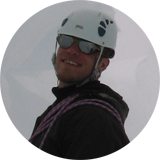
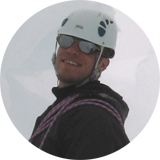
about us team page
On branch master

	modified:   website/_content/1-about/page.md
	modified:   website/_themes/pinfinity/css/pinfinity.css
	modified:   website/_themes/pinfinity/templates/home.html
	modified:   website/assets/img/kris-walker.png

diff --git a/website/_themes/pinfinity/css/pinfinity.css b/website/_themes/pinfinity/css/pinfinity.css
@@ -45,63 +45,6 @@ img {
 img.video-img {
 	border: 1px solid #eee;
 }
-#background {
-	clear: both;
-	padding: 0 0 1em 0;
-}
-.lightbox.disabled {
-	display: none;
-}
-.lightbox, .lightbox .background {
-	position: fixed;
-	height: 100%;
-	width: 100%;
-	top: 0;
-	left: 0;
-}
-.lightbox.enabled {
-	display: block;
-}
-.lightbox .background {
-	background-color: #000;
-	z-index: 1;
-	-moz-opacity: 0.8;
-	opacity: .80;
-	filter: alpha(opacity=80);
-}
-.lightbox .foreground {
-	position: absolute;
-	top: 50%;
-	left: 50%;
-	background-color: #fff;
-	z-index: 2;
-	box-shadow: 0 0 25px #111;
-	-webkit-box-shadow: 0 0 25px #111;
-	-moz-box-shadow: 0 0 25px #111;
-}
-.lightbox .foreground .close {
-	position: absolute;
-	top: -3em;
-	right: -1em;
-	background-color: #000;
-	-moz-opacity: 0.8;
-	opacity: .80;
-	filter: alpha(opacity=80);
-}
-.lightbox .foreground .close a,
-.lightbox .foreground .close a:hover,
-.lightbox .foreground .close a:visited {
-	display: block;
-	padding: .8em;
-	font-weight: bold;
-	color: #fff;
-}
-.lightbox .foreground.video-player {
-	margin-top: -225px;
-	margin-left: -400px;
-	width: 800px;
-	height: 450px;
-}
 ul.nav {
 	margin: 0;
 	padding: 0;
@@ -109,6 +52,12 @@ ul.nav {
 	overflow: hidden;
 }
 li.nav-item {
+	float: left;
+}
+.media-box {
+	overflow: hidden;
+}
+.media-box .img {
 	float: left;
 }
 #banner, #container, .hero-shot, .blog-header {
@@ -179,6 +128,10 @@ li.nav-item {
 }
 #banner .main-nav .nav-item a:hover {
 	background-color: #eee;
+}
+#background {
+	clear: both;
+	padding: 0 0 1em 0;
 }
 #container {
 	box-shadow: 0 0 15px rgba(0,0,0,0.13);
@@ -262,6 +215,28 @@ li.nav-item {
 	background: #98ca3c url(../img/pinfinity-mark-white-44.png) no-repeat;
 	padding-left: 64px;
 	min-height: 44px;
+}
+#content {
+	padding: 1em 3% 2em;
+}
+#content .team {
+	padding: 0;
+	margin: 0;
+	list-style-type: none;
+}
+#content .team .media-box {
+	margin-bottom: 2em;
+}
+#content .team .media-box>.img {
+	margin-top: 2em;
+}
+#content .team .media-box>.text {
+	margin-left: 200px;
+}
+#content .team .media-box>.text>.header {
+	font-size: 2em;
+	margin: 0 0 0.3em;
+	color: #e96f00;
 }
 .row.passion,
 .row.product {
@@ -411,6 +386,59 @@ li.nav-item {
 }
 #footer p.copyright {
 	font-size: 0.9em;
+}
+.lightbox.disabled {
+	display: none;
+}
+.lightbox, .lightbox .background {
+	position: fixed;
+	height: 100%;
+	width: 100%;
+	top: 0;
+	left: 0;
+}
+.lightbox.enabled {
+	display: block;
+}
+.lightbox .background {
+	background-color: #000;
+	z-index: 1;
+	-moz-opacity: 0.8;
+	opacity: .80;
+	filter: alpha(opacity=80);
+}
+.lightbox .foreground {
+	position: absolute;
+	top: 50%;
+	left: 50%;
+	background-color: #fff;
+	z-index: 2;
+	box-shadow: 0 0 25px #111;
+	-webkit-box-shadow: 0 0 25px #111;
+	-moz-box-shadow: 0 0 25px #111;
+}
+.lightbox .foreground .close {
+	position: absolute;
+	top: -3em;
+	right: -1em;
+	background-color: #000;
+	-moz-opacity: 0.8;
+	opacity: .80;
+	filter: alpha(opacity=80);
+}
+.lightbox .foreground .close a,
+.lightbox .foreground .close a:hover,
+.lightbox .foreground .close a:visited {
+	display: block;
+	padding: .8em;
+	font-weight: bold;
+	color: #fff;
+}
+.lightbox .foreground.video-player {
+	margin-top: -225px;
+	margin-left: -400px;
+	width: 800px;
+	height: 450px;
 }
 @media (max-width: 1130px) {
 	#banner, #container, .hero-shot, .blog-header {

diff --git a/website/_themes/pinfinity/templates/home.html b/website/_themes/pinfinity/templates/home.html
@@ -16,7 +16,7 @@
 		</p>
 	</div>
 	<div class="section boxb">
-		<p class="hero-shot-image"><img src="/assets/img/ipad-2.png"></p>
+		<p class="hero-shot-image"><img src="/assets/img/ipad-2.png" alt="The Gallbladder iBook for iPad"></p>
 	</div>
 </div><!-- .row.hero-shot -->
 

diff --git a/website/_content/1-about/page.md b/website/_content/1-about/page.md
@@ -7,37 +7,64 @@ _template: page
 <ul class="team">
 	<li class="media-box">
 		<p class="img">
-			<img src="" />
+			<img src="/assets/img/jeffrey-eakin-md.png" alt="Jeffrey Eakin: Founder and CEO." />
 		</p>
-		<p class="text">
-		</p>
+		<div class="text">
+			<h3 class="header light">Jeffrey Eakin M.D.</h3>
+			<p class="bio"> Jeff is our founder and fearless leader. He is a
+visionary and true entrepreneur to the bone. He's the one who risks life and
+limb to make all the tough decisions needed to set the ship on the right course
+(at least until the next time we change course).</p>
+			<p class="bio">We hear he's also a pretty good surgeon. From what we
+know, he has completed a Minimally Invasive, Bariatric and Robotic Surgery
+Fellowship at the Center for Minimally Invasive Surgery at The Ohio State
+University Medical Center under the direction of Dr. Scott Melvin. These days
+he is practicing Minimally Invasive Gastrointestinal Surgery, in addition to
+authoring multi-touch books to teach you all about it. So, to be frank, Jeff
+knows his stuff.  </p>
+			<p class="link">
+				<a href="http://www.linkedin.com/pub/jeffrey-l-eakin-m-d/8/79a/338/">Learn more about Dr. Eakin on LinkedIn</a>
+			</p>
+		</div>
 	</li>
 	<li class="media-box">
 		<p class="img">
-			<img src="" />
+			<img src="/assets/img/david-wilmert.png" alt="David Wilmert: Founder and Chief of Operations." />
 		</p>
-		<p class="text">
-		</p>
+		<div class="text">
+			<h3 class="header light">David Wilmert</h3>
+			<p class="bio">David is a business school graduate who has spent the
+majority of his career in the medical field as a sales representative (we love
+him anyway). He has a passion for the advancement of medicine, which became
+pronounced when he co-founded Pinfinity with his friend Jeff. David is possibly
+the most talented individual on the planet when it comes to putting the right
+people together to do something great. He is the Chief of Operations at
+Pinfinity, but you could call him the chief cat herder, digital marketing
+strategist, or an online collaboration specialist, depending on the hour of the
+day.  </p>
+			<p class="link">
+				<a href="http://www.linkedin.com/pub/david-wilmert/1a/640/426/">Learn more about David on LinkedIn</a>
+			</p>
+		</div>
 	</li>
 	<li class="media-box">
 		<p class="img">
-			<img src="" />
+			<img src="/assets/img/kris-walker.png" alt="Kris Walker: Chief software engineer."/>
 		</p>
-		<p class="text">
-		</p>
-	</li>
-	<li class="media-box">
-		<p class="img">
-			<img src="" />
-		</p>
-		<p class="text">
-		</p>
-	</li>
-	<li class="media-box">
-		<p class="img">
-			<img src="" />
-		</p>
-		<p class="text">
-		</p>
+		<div class="text">
+			<h3 class="header light">Kris Walker</h3>
+			<p class="bio">Kris is trained in film and multi-media production, but
+when the World Wide Web thing got big, he correctly surmized that learning
+computer programming would be a good use of time.  When he is not working on
+the next piece of digital media software, Kris can usually be found trying to
+get to the top of some big mountain (and safely back down).  Currently, Jeff
+and Dave have Kris locked up in an undisclosed cave where he is busy as the
+chief Information technologist for Pinfinity, which in our case, means building
+websites and amazing software for creating even more amazing multi-touch books.
+</p>
+			<p class="link">
+				<a href="http://www.linkedin.com/in/kixx7/">Learn more about Kris on LinkedIn</a>
+			</p>
+		</div>
 	</li>
 </ul>
